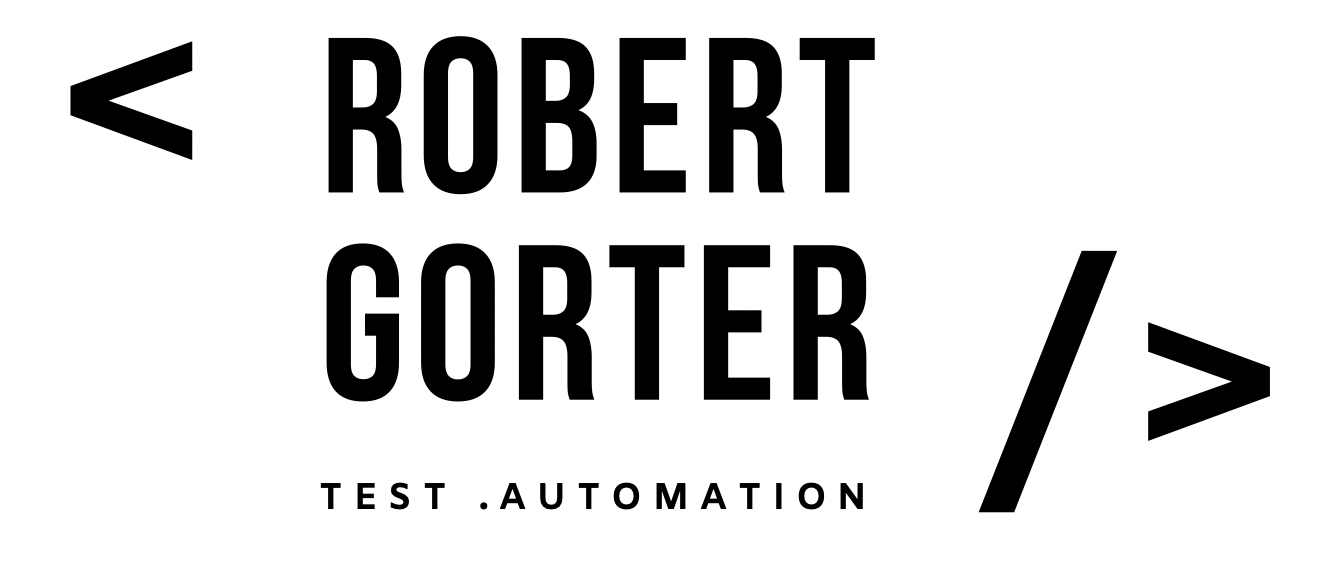
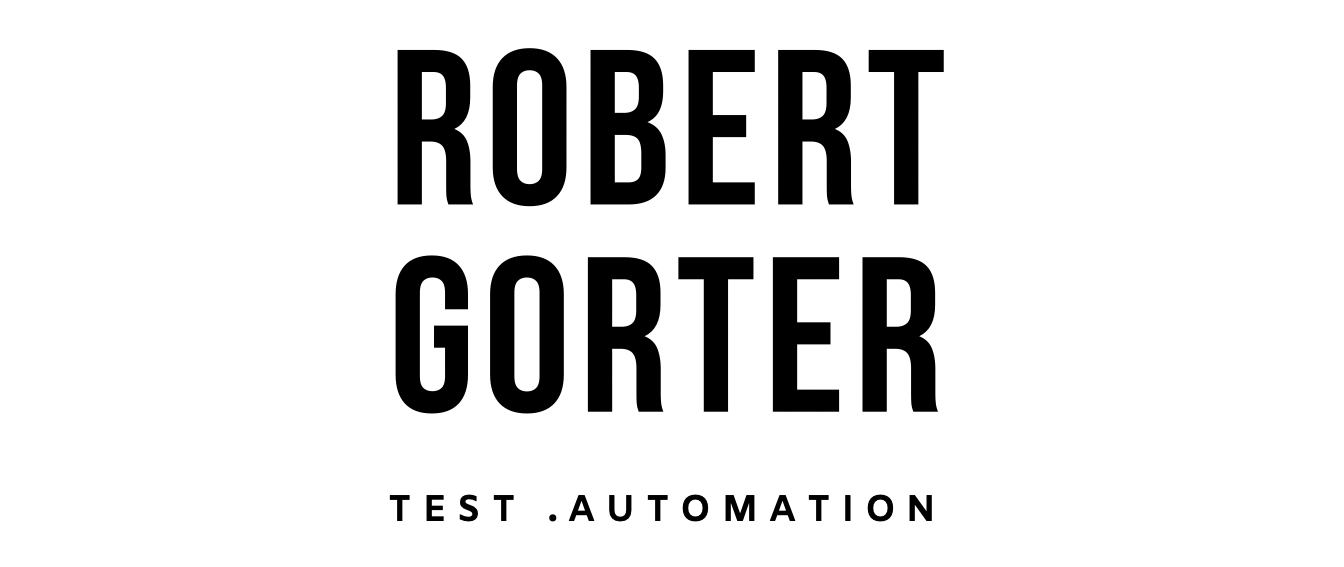
New header no title

diff --git a/index.html b/index.html
@@ -29,7 +29,7 @@
 
     <header id="header">
       <img src="Header1.png" width="100%" height="auto">
-      <h1>Robert Gorter Test Automation</h1>
+      <!-- <h1>Robert Gorter Test Automation</h1> -->
 
       <!-- Menu link fragment #id should match a div id. Example: <a href="#home"> links to <div id="home"></div>  -->
       <ul class="main-menu">
